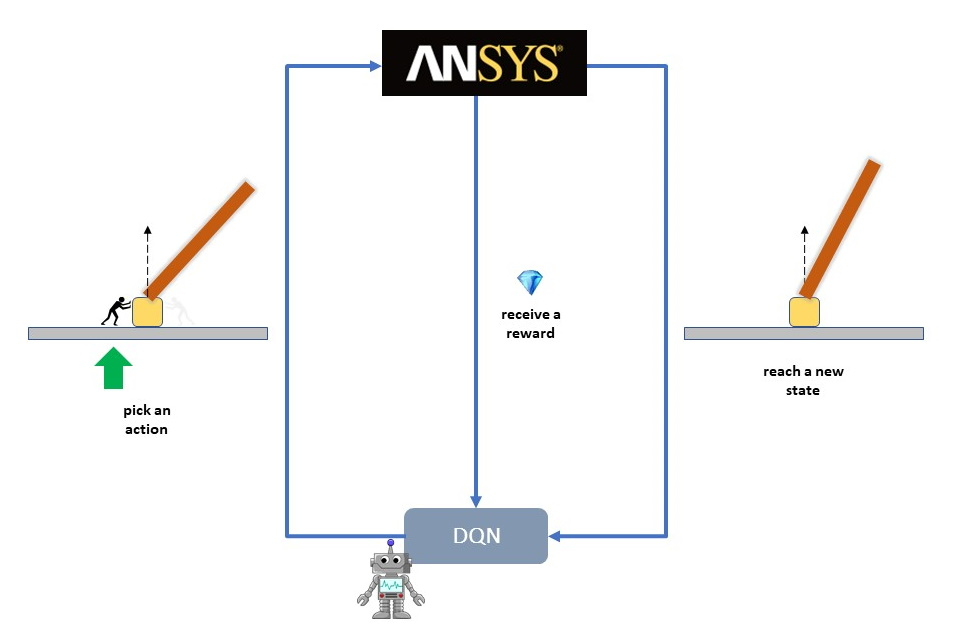
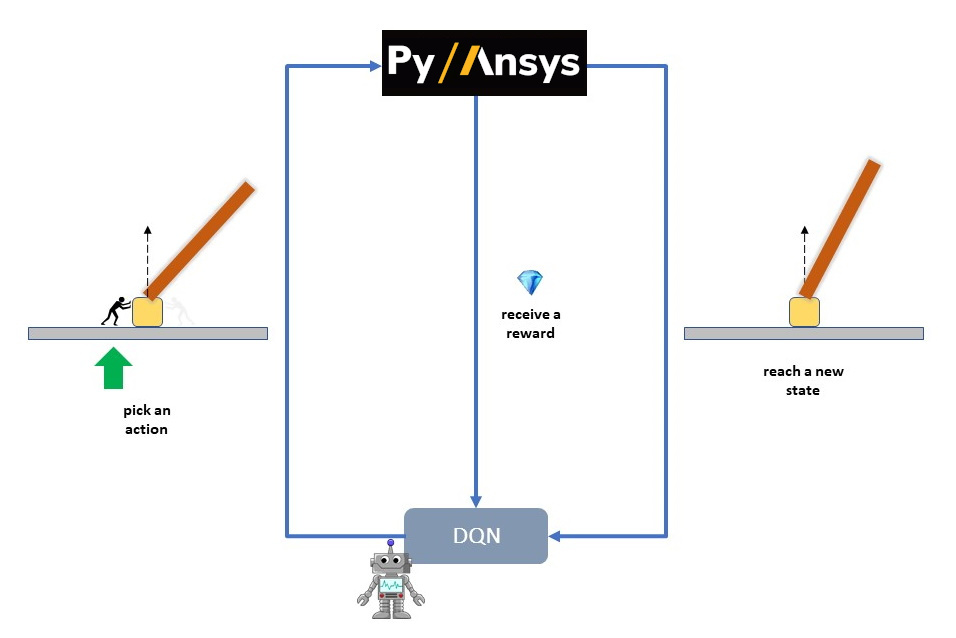
fix branding

Changed region(s): [[0.3944, 0.0596, 0.6067, 0.1489]]

diff --git a/README.rst b/README.rst
@@ -1,12 +1,15 @@
-Reinforcement Machine Learning using PyMAPDL: Cart-Pole Simulation
-=================================================================
-
+Reinforcement ML using PyMAPDL: Cart-Pole Simulation
+====================================================
 This notebook demonstrates a reinforcement machine learning example using MAPDL
 through PyMAPDL.
 
+.. image:: https://github.com/pyansys/ml-rl-cartpole/raw/main/doc/source/images/openai.gif
+   :target: https://github.com/pyansys/ml-rl-cartpole/blob/main/notebook.ipynb
+   :alt: pyvista
+
+
 Installation
 ~~~~~~~~~~~~
-
 First, make sure you have PyMAPDL and MAPDL installed. Visit `PyMAPDL - Getting
 Started <https://mapdldocs.pyansys.com/getting_started/index.html>`_
 
@@ -18,8 +21,19 @@ repository and make sure you are in the correct directory with:
    git clone https://github.com/pyansys/ml-rl-cartpole
    cd ml-rl-cartpole
 
+
 Usage
 -----
 Start `JupyterLab <https://jupyter.org/>`_ and open `cartpole.ipynb
 <https://github.com/pyansys/ml-rl-cartpole/blob/main/cartpole.ipynb>`_. Follow
 the directions in the example.
+
+
+Contributions
+-------------
+Feel free to contribute to `ml-rl-cartpole repository <https://github.com/pyansys/ml-rl-cartpole>`_.
+
+
+License
+-------
+This example is licened under the `MIT License <https://raw.githubusercontent.com/pyansys/ml-rl-cartpole/main/LICENSE>`_.

diff --git a/doc/source/index.rst b/doc/source/index.rst
@@ -1,8 +1,8 @@
-
   .. _ref_index:
 
-Content
-=======
+.. include:: ../../README.rst
+
+**Content**
 
 .. toctree::
     :hidden:
@@ -11,17 +11,3 @@ Content
     ML-RL-notebook.rst
 
 
-Introduction
-------------
-This document shows the machine learning cartpole example which uses reinforcement learning to
-train a neural network to balance a cartpole using PyMAPDL. See :ref:`ref_ml_rl_cartpole`.
-
-
-Contributions
--------------
-Feel free to contribute to `ml-rl-cartpole repository <https://github.com/pyansys/ml-rl-cartpole>`_.
-
-
-License
--------
-This example is licened under the `MIT License <https://raw.githubusercontent.com/pyansys/ml-rl-cartpole/main/LICENSE>`_.
